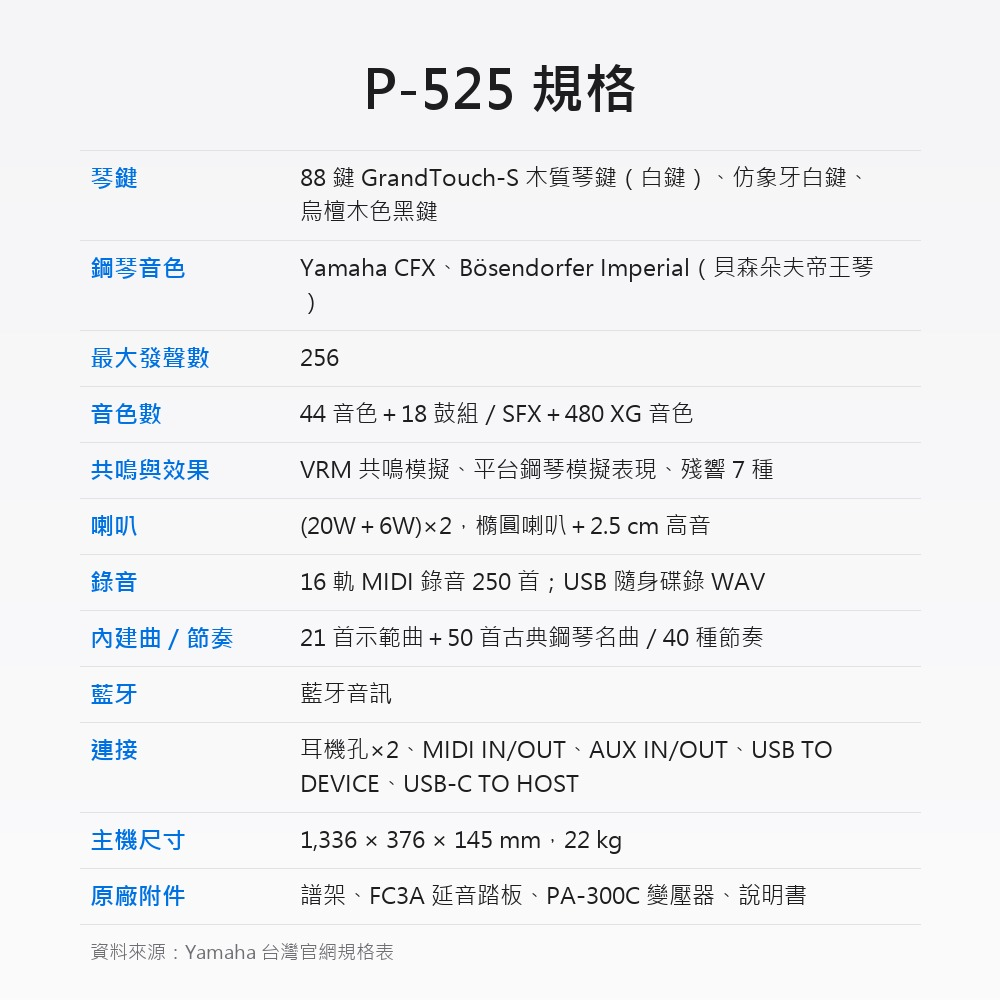
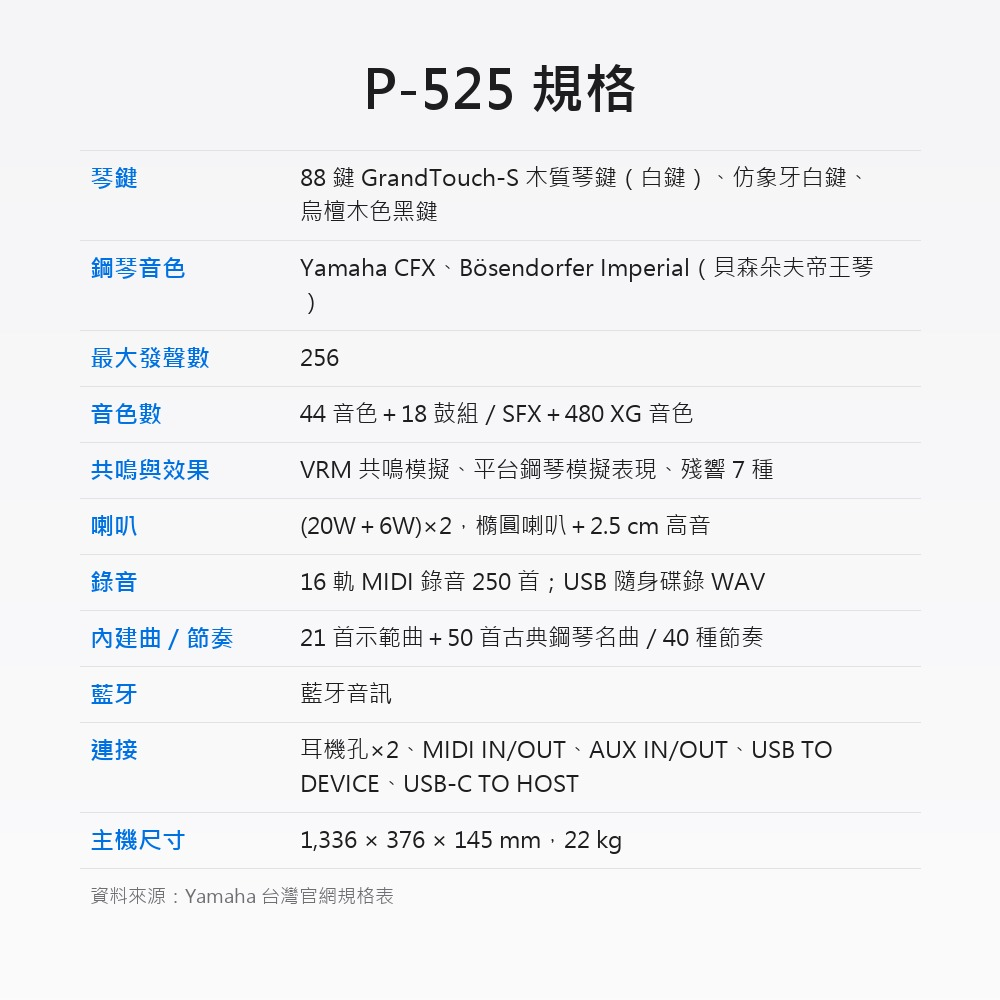
P-525: clean accessory cutouts, drop accessory row from spec

diff --git a/piano/P-525/index.html b/piano/P-525/index.html
@@ -26,6 +26,6 @@ const S=[
  ["web","官網・輕巧風","米白紙感＋紙飛機，跟電商明顯不同"]];
 const F={"sky": ["P525_1_main_BK.jpg", "P525_1_main_WH.jpg", "P525_2_cover.jpg", "P525_3_stand.jpg", "P525_4_features.jpg", "P525_d01_brand.jpg", "P525_d02_keys.jpg", "P525_d03_sound.jpg", "P525_d04_speakers.jpg", "P525_d05_headphones.jpg", "P525_d06_app.jpg", "P525_d07_record.jpg", "P525_d08_practice.jpg", "P525_d09_stand_pedals.jpg", "P525_d10_contents.jpg", "P525_d11_size.jpg", "P525_d12_spec.jpg", "P525_d90_notice_buy.jpg", "P525_d91_notice_return.jpg", "P525_d92_notice_remote.jpg"], "apple": ["P525_1_main_BK.jpg", "P525_1_main_WH.jpg", "P525_2_cover.jpg", "P525_3_stand.jpg", "P525_4_features.jpg", "P525_d01_brand.jpg", "P525_d02_keys.jpg", "P525_d03_sound.jpg", "P525_d04_speakers.jpg", "P525_d05_headphones.jpg", "P525_d06_app.jpg", "P525_d07_record.jpg", "P525_d08_practice.jpg", "P525_d09_stand_pedals.jpg", "P525_d10_contents.jpg", "P525_d11_size.jpg", "P525_d12_spec.jpg", "P525_d90_notice_buy.jpg", "P525_d91_notice_return.jpg", "P525_d92_notice_remote.jpg"], "web": ["P525_web_1_cover.jpg", "P525_d01_brand.jpg", "P525_d02_keys.jpg", "P525_d03_sound.jpg", "P525_d04_speakers.jpg", "P525_d05_headphones.jpg", "P525_d06_app.jpg", "P525_d07_record.jpg", "P525_d08_practice.jpg", "P525_d09_stand_pedals.jpg", "P525_d10_contents.jpg", "P525_d11_size.jpg", "P525_d12_spec.jpg", "P525_d90_notice_buy.jpg", "P525_d91_notice_return.jpg", "P525_d92_notice_remote.jpg"]};
 const N={"P525_1_main_BK.jpg": "首圖・黑", "P525_1_main_WH.jpg": "首圖・白", "P525_2_cover.jpg": "封面", "P525_3_stand.jpg": "分離式琴架", "P525_4_features.jpg": "四大強項", "P525_web_1_cover.jpg": "官網底圖", "P525_d01_brand.jpg": "品牌介紹", "P525_d02_keys.jpg": "木質琴鍵", "P525_d03_sound.jpg": "雙名琴音色", "P525_d04_speakers.jpg": "雙向喇叭", "P525_d05_headphones.jpg": "耳機", "P525_d06_app.jpg": "藍牙App", "P525_d07_record.jpg": "錄音", "P525_d08_practice.jpg": "練習功能", "P525_d09_stand_pedals.jpg": "琴架三踏板", "P525_d10_contents.jpg": "整套內容", "P525_d11_size.jpg": "尺寸", "P525_d12_spec.jpg": "規格", "P525_d90_notice_buy.jpg": "購買須知", "P525_d91_notice_return.jpg": "退貨須知", "P525_d92_notice_remote.jpg": "偏遠地區"};
-const v="?v=3";
+const v="?v=4";
 document.getElementById("app").innerHTML=S.map(([k,t,d])=>`<section><h2>${t}</h2><p>${d}</p><div class="grid">${F[k].map(f=>`<div class="card"><a href="${k}/${f}${v}" target="_blank"><img loading="lazy" src="${k}/${f}${v}" alt="${N[f]}"></a><div class="cap"><span>${N[f]}</span><a href="${k}/${f}" download>下載</a></div></div>`).join("")}</div></section>`).join("");
 </script></body></html>
